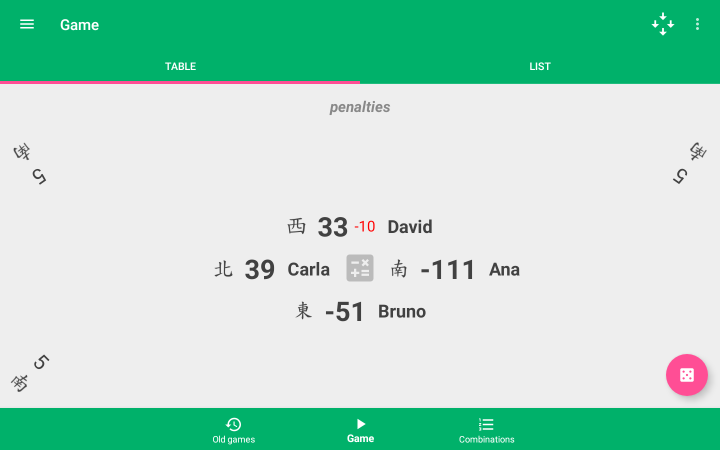
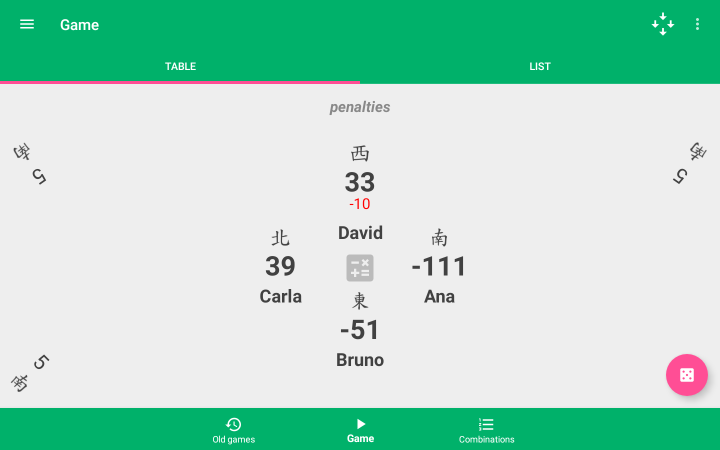
Keep the table seats vertical whenever they fit
On 7" tablets in landscape the seats now stay vertical, closer to the diffs
button, instead of turning into rows. Rows are only used when vertical seats
do not fit (landscape phones, or 7" tablets while the diffs are shown).

Changed region(s): [[0.3056, 0.4667, 0.7333, 0.7156], [0.4583, 0.6533, 0.6417, 0.8089], [0.4583, 0.3111, 0.5194, 0.4667]]

diff --git a/shared/src/commonMain/kotlin/com/etologic/mahjongscoring3/ui/game/GameTable.kt b/shared/src/commonMain/kotlin/com/etologic/mahjongscoring3/ui/game/GameTable.kt
@@ -255,23 +255,33 @@ private fun SeatsBySeat(
     val margin = MmDimens.StandardMargin
 
     // Change from MS2: on short tables (phones in landscape, 7" tablets in landscape) MS2 squeezes the West and East
-    // seats until only their wind icon shows, or cuts their name. Here, when a full seat does not fit on its side of
-    // the diffs button, every seat turns into one row (icon, points, penalty, name): North and South beside the diffs
-    // button, West above it and East below it, so all four players stay visible.
+    // seats until only their wind icon shows, or cuts their name. Here the seats stay vertical (icon, points, penalty,
+    // name) whenever they fit: first with the MS2 margins, then with smaller ones ([SeatsLayout.TIGHT]). Only when
+    // they do not fit, every seat turns into one row: North and South beside the diffs button, West above it and East
+    // below it, so all four players stay visible.
+    val fullMargin = if (arrangement == SeatsArrangement.OUT) margin else margin * 3
+    val tightMargin = MmDimens.HalfMargin
+
     @Composable
-    fun SeatAt(seat: TableWinds, isRow: Boolean, extraModifier: Modifier) {
+    fun SeatAt(seat: TableWinds, layout: SeatsLayout, extraModifier: Modifier) {
         val index = seat.code
+        val isRow = layout == SeatsLayout.ROW
+        // Space between the West and East seats and the diffs button
+        val gap = when (layout) {
+            SeatsLayout.FULL -> fullMargin
+            else -> tightMargin
+        }
         val (rotation, paddingModifier) = when (arrangement) {
             // On short tables North and South rows are not turned: turned, they would be taller than the table
             SeatsArrangement.OUT -> when (seat) {
-                TableWinds.EAST -> 0f to Modifier.padding(top = if (isRow) MmDimens.HalfMargin else margin)
+                TableWinds.EAST -> 0f to Modifier.padding(top = gap)
                 TableWinds.SOUTH -> if (isRow) 0f to Modifier.padding(horizontal = margin) else -90f to Modifier.padding(bottom = margin)
-                TableWinds.WEST -> 180f to Modifier.padding(top = if (isRow) MmDimens.HalfMargin else margin)
+                TableWinds.WEST -> 180f to Modifier.padding(top = gap)
                 else -> if (isRow) 0f to Modifier.padding(horizontal = margin) else 90f to Modifier.padding(bottom = margin)
             }
             else -> when (seat) {
-                TableWinds.EAST -> 0f to Modifier.padding(top = if (isRow) MmDimens.HalfMargin else margin * 3)
-                TableWinds.WEST -> 0f to Modifier.padding(bottom = if (isRow) MmDimens.HalfMargin else margin * 3)
+                TableWinds.EAST -> 0f to Modifier.padding(top = gap)
+                TableWinds.WEST -> 0f to Modifier.padding(bottom = gap)
                 else -> 0f to if (isRow) Modifier.padding(horizontal = margin) else Modifier
             }
         }
@@ -292,16 +302,16 @@ private fun SeatsBySeat(
         )
     }
 
-    /** [isProbe]: only measured, to know if the full seats fit; never shown, so without semantics. */
+    /** [isProbe]: only measured, to know if the vertical seats fit; never shown, so without semantics. */
     @Composable
-    fun Seats(isRow: Boolean, isProbe: Boolean = false) {
+    fun Seats(layout: SeatsLayout, isProbe: Boolean = false) {
         val extraModifier = if (isProbe) Modifier.clearAndSetSemantics {} else Modifier
         CompositionLocalProvider(LocalIsMeasureProbe provides isProbe) {
             DiffsButton(isDiffsButtonVisible, onToggleDiffs, extraModifier)
-            SeatAt(TableWinds.EAST, isRow, extraModifier)
-            SeatAt(TableWinds.SOUTH, isRow, extraModifier)
-            SeatAt(TableWinds.WEST, isRow, extraModifier)
-            SeatAt(TableWinds.NORTH, isRow, extraModifier)
+            SeatAt(TableWinds.EAST, layout, extraModifier)
+            SeatAt(TableWinds.SOUTH, layout, extraModifier)
+            SeatAt(TableWinds.WEST, layout, extraModifier)
+            SeatAt(TableWinds.NORTH, layout, extraModifier)
         }
     }
 
@@ -311,8 +321,8 @@ private fun SeatsBySeat(
         val loose = constraints.copy(minWidth = 0, minHeight = 0)
         val width = constraints.maxWidth
         val height = constraints.maxHeight
-        val fullSeats = subcompose("probe") { Seats(isRow = false, isProbe = true) }
-        val button = fullSeats[0].measure(loose)
+        val tightSeats = subcompose("probe") { Seats(SeatsLayout.TIGHT, isProbe = true) }
+        val button = tightSeats[0].measure(loose)
         val cx = width / 2
         val cy = height / 2
         val buttonLeft = cx - button.width / 2
@@ -322,11 +332,17 @@ private fun SeatsBySeat(
         // Turned seats (OUT arrangement) take their width as height on the screen
         fun Measurable.screenHeight(isTurned: Boolean) = if (isTurned) maxIntrinsicWidth(height) else maxIntrinsicHeight(width)
         val isOut = arrangement == SeatsArrangement.OUT
-        val fullSeatsFit = fullSeats[1].maxIntrinsicHeight(width) <= height - buttonBottom &&
-            fullSeats[3].maxIntrinsicHeight(width) <= buttonTop &&
-            fullSeats[2].screenHeight(isOut) <= height && fullSeats[4].screenHeight(isOut) <= height
-        // One slot for both layouts: a second slot would stay in the tree (and in the semantics) when not used
-        val seats = subcompose("seats") { Seats(isRow = !fullSeatsFit) }
+        val eastHeight = tightSeats[1].maxIntrinsicHeight(width)
+        val westHeight = tightSeats[3].maxIntrinsicHeight(width)
+        val sidesFit = tightSeats[2].screenHeight(isOut) <= height && tightSeats[4].screenHeight(isOut) <= height
+        fun fits(gap: Int) = sidesFit && eastHeight + gap <= height - buttonBottom && westHeight + gap <= buttonTop
+        val seatsLayout = when {
+            fits((fullMargin - tightMargin).roundToPx()) -> SeatsLayout.FULL
+            fits(0) -> SeatsLayout.TIGHT
+            else -> SeatsLayout.ROW
+        }
+        // One slot for every layout: a second slot would stay in the tree (and in the semantics) when not used
+        val seats = subcompose("seats") { Seats(seatsLayout) }
         val east = seats[1].measure(loose.copy(maxHeight = (height - buttonBottom).coerceAtLeast(0)))
         val south = seats[2].measure(loose.copy(maxWidth = (width - buttonRight).coerceAtLeast(0)))
         val west = seats[3].measure(loose.copy(maxHeight = buttonTop.coerceAtLeast(0)))
@@ -340,6 +356,16 @@ private fun SeatsBySeat(
             north.place(buttonLeft - north.width, cy - north.height / 2) // left of the button
         }
     }
+}
+
+/** How the by-seat table shows its seats, from the MS2 one to the most compact one. */
+private enum class SeatsLayout {
+    /** Vertical seats with the MS2 margins. */
+    FULL,
+    /** Vertical seats closer to the diffs button, when the MS2 margins do not leave room for them. */
+    TIGHT,
+    /** One row for each seat, when vertical seats do not fit (phones in landscape). */
+    ROW,
 }
 
 /**
